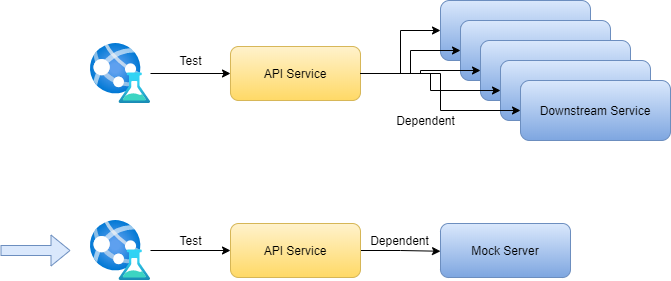
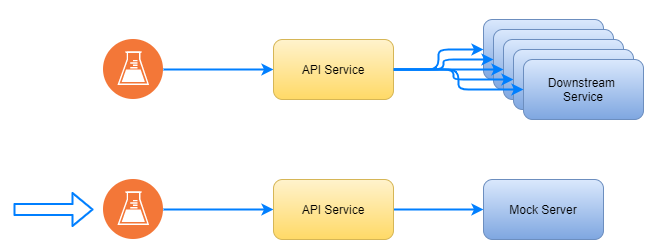
update

Changed region(s): [[0.1214, 0.0, 1.0, 0.5122], [0.0, 0.7114, 0.9408, 1.0]]

diff --git a/README.md b/README.md
@@ -13,6 +13,71 @@ In microservice architecture, a serviec might denpendent to multiple other servi
 
 ![img](/design.png)
 
+## Prepare for testing
+* ***Static*** stub should be registered before server started by spec files. 
+```yml
+version: v1
+stubs:
+  - request:
+      method: get
+      path: api/orders/{id}
+    response:
+      body: order.json
+      delay: 100
+  - request:
+      method: put
+      path: api/orders
+    response:
+      statusCode: 201
+      body: |
+        {
+            "id": 1000,
+            "customerId": "${b.customer.id}"
+        }
+```
+For details, please refer to [Static Stub Wiki](https://github.com/vincent-scw/mock-it-up/wiki/Static-Stub).
+* ***Dynamic*** stub should be registered within a test scenario. It will be removed automatically when scenario disposed.
+```csharp
+using (var scenario = _client.BeginScenario())
+{
+    var orderId = 215;
+    // Register a dynamic stub to mock server
+    var regResult = scenario.RegisterDynamicStub(new DynamicStub
+    {
+        // Define request
+        Request = new Request { Method = "GET", UriTemplate = "api/orders/{id}" },
+        // Define response
+        Response = new Response
+        {
+            StatusCode = 200,
+            Body = JsonConvert.SerializeObject(new
+            {
+                id = orderId,
+                title = "this is a test"
+            })
+         }
+    });
+
+    // Do your testing against real service
+    var response = await httpClient.GetAsync($"{_orderUrl}/api/orders/{orderId}");
+    var order = await ReadResponseAsync<dynamic>(response.Content);
+    
+    Assert.Equal(orderId, (int)order.id);
+    Assert.Equal("this is a test", (string)order.title);
+
+    // The stubs in current scenario will be removed in dispose
+
+    // You can also manually remove any stubs within current scenario by
+    // scenario.RemoveDynamicStubs(regResult.StubID);
+}
+```
+For details, please refer to [Dynamic Stub Wiki](https://github.com/vincent-scw/mock-it-up/wiki/Dynamic-Stub). 
+* Both ***dynamic*** and ***static*** stubs can work together. Mock It Up try to match the dynamic stub, then static.
+* Before running docker containers, don't forget to copy your specs and payloads into container if you want to use ***static*** stubs.
+* Idealy, running acceptence/integration test requires three containers -- Service, Tests and Mock Server-- working together. 
+  * Run with docker-compose: ```docker-compose up --abort-on-container-exit --exit-code-from integrationtest```.
+  * Run in K8S: Include ***Mock It Up*** as a sidecar together with api service.
+  
 ## Config the mock server
 When start, ***Mock It Up*** reads settings via configuration file. Please ref to [config.yml](https://github.com/vincent-scw/mock-it-up/blob/main/test/MockItUp.IntegrationTest/mockitup.d/conf.yml)
 | Property | Required? | Notes                                                                    |
@@ -21,11 +86,3 @@ When start, ***Mock It Up*** reads settings via configuration file. Please ref t
 | controlPort | required for dynamic |Default: 30000 (dynamic only)                                            |
 | specDirectory | required for static  | The url path to spec directory (static only)                             |
 | payloadDirectory | optional  | The url path to payload (definition of response bodies) directory (static only) |
-
-## Prepare for testing
-* For ***static*** stub setting, please refer to [Static Stub Wiki](https://github.com/vincent-scw/mock-it-up/wiki/Static-Stub)
-* For ***dynamic*** stub setting, please refer to [Dynamic Stub Wiki](https://github.com/vincent-scw/mock-it-up/wiki/Dynamic-Stub)
-* Both ***dynamic*** and ***static*** stubs can work together. Mock It Up try to match the dynamic stub, then static.
-* Before running docker containers, don't forget to copy your specs and payloads into container if you want to use ***static*** stubs.
-* Idealy, running acceptence/integration test requires three containers -- Service, Tests and Mock Server-- working together. 
-  * Run with docker-compose: ```docker-compose up --abort-on-container-exit --exit-code-from integrationtest```
